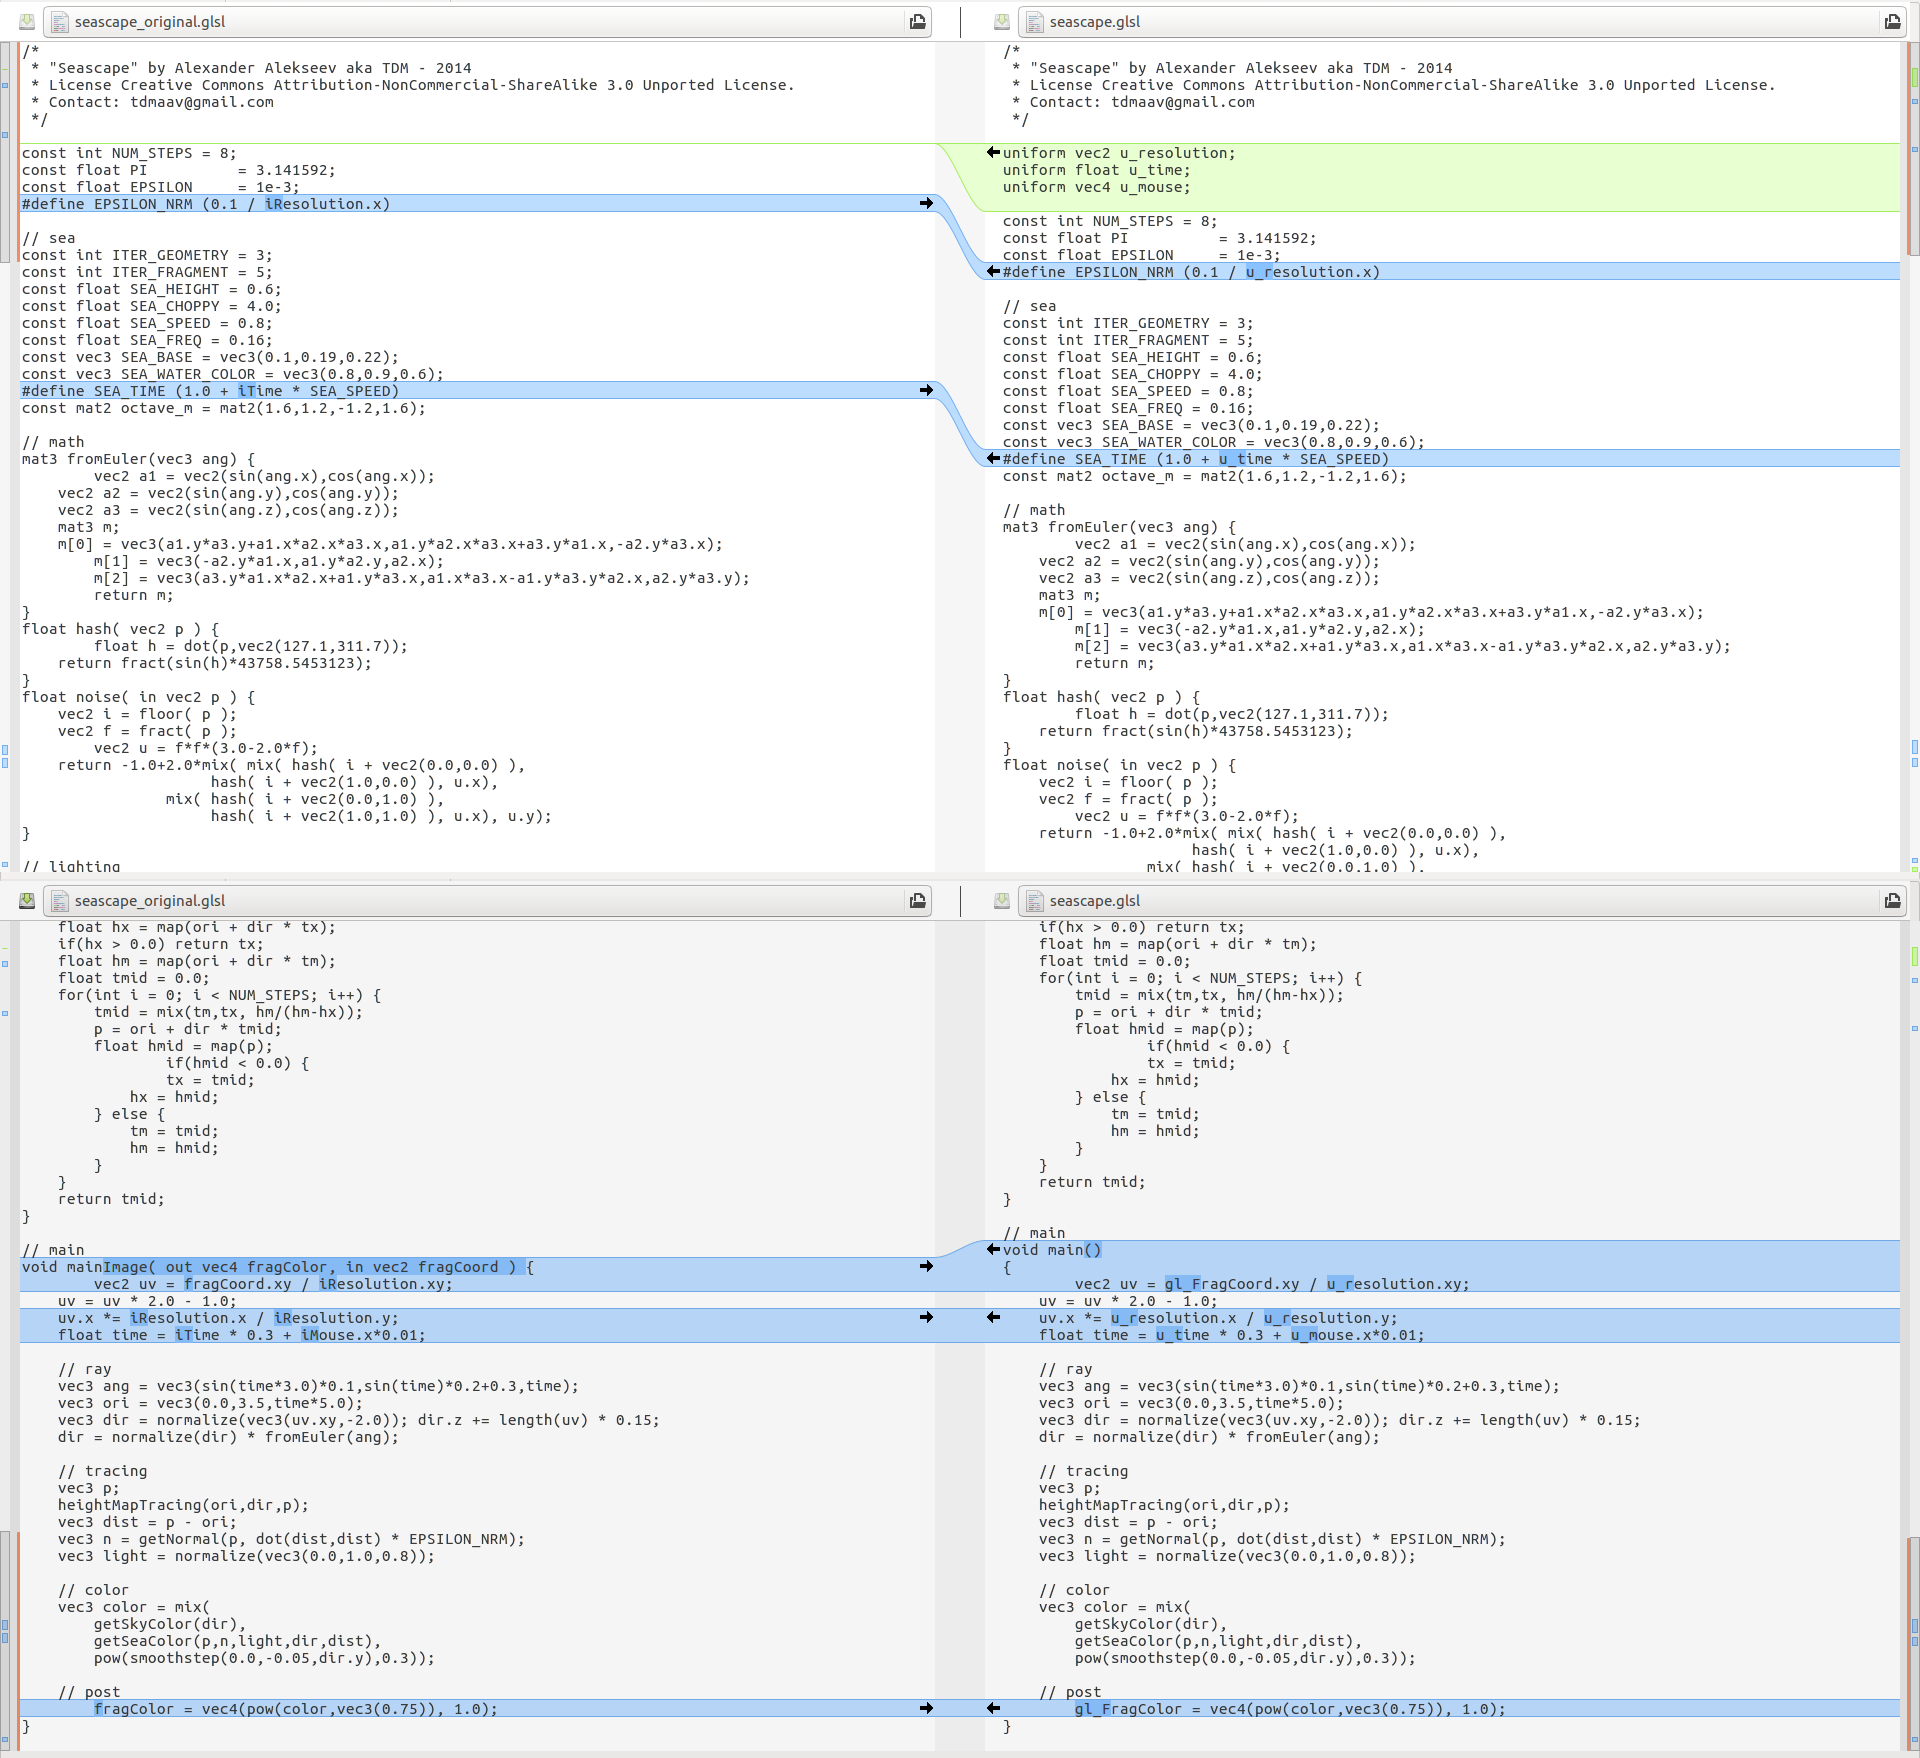
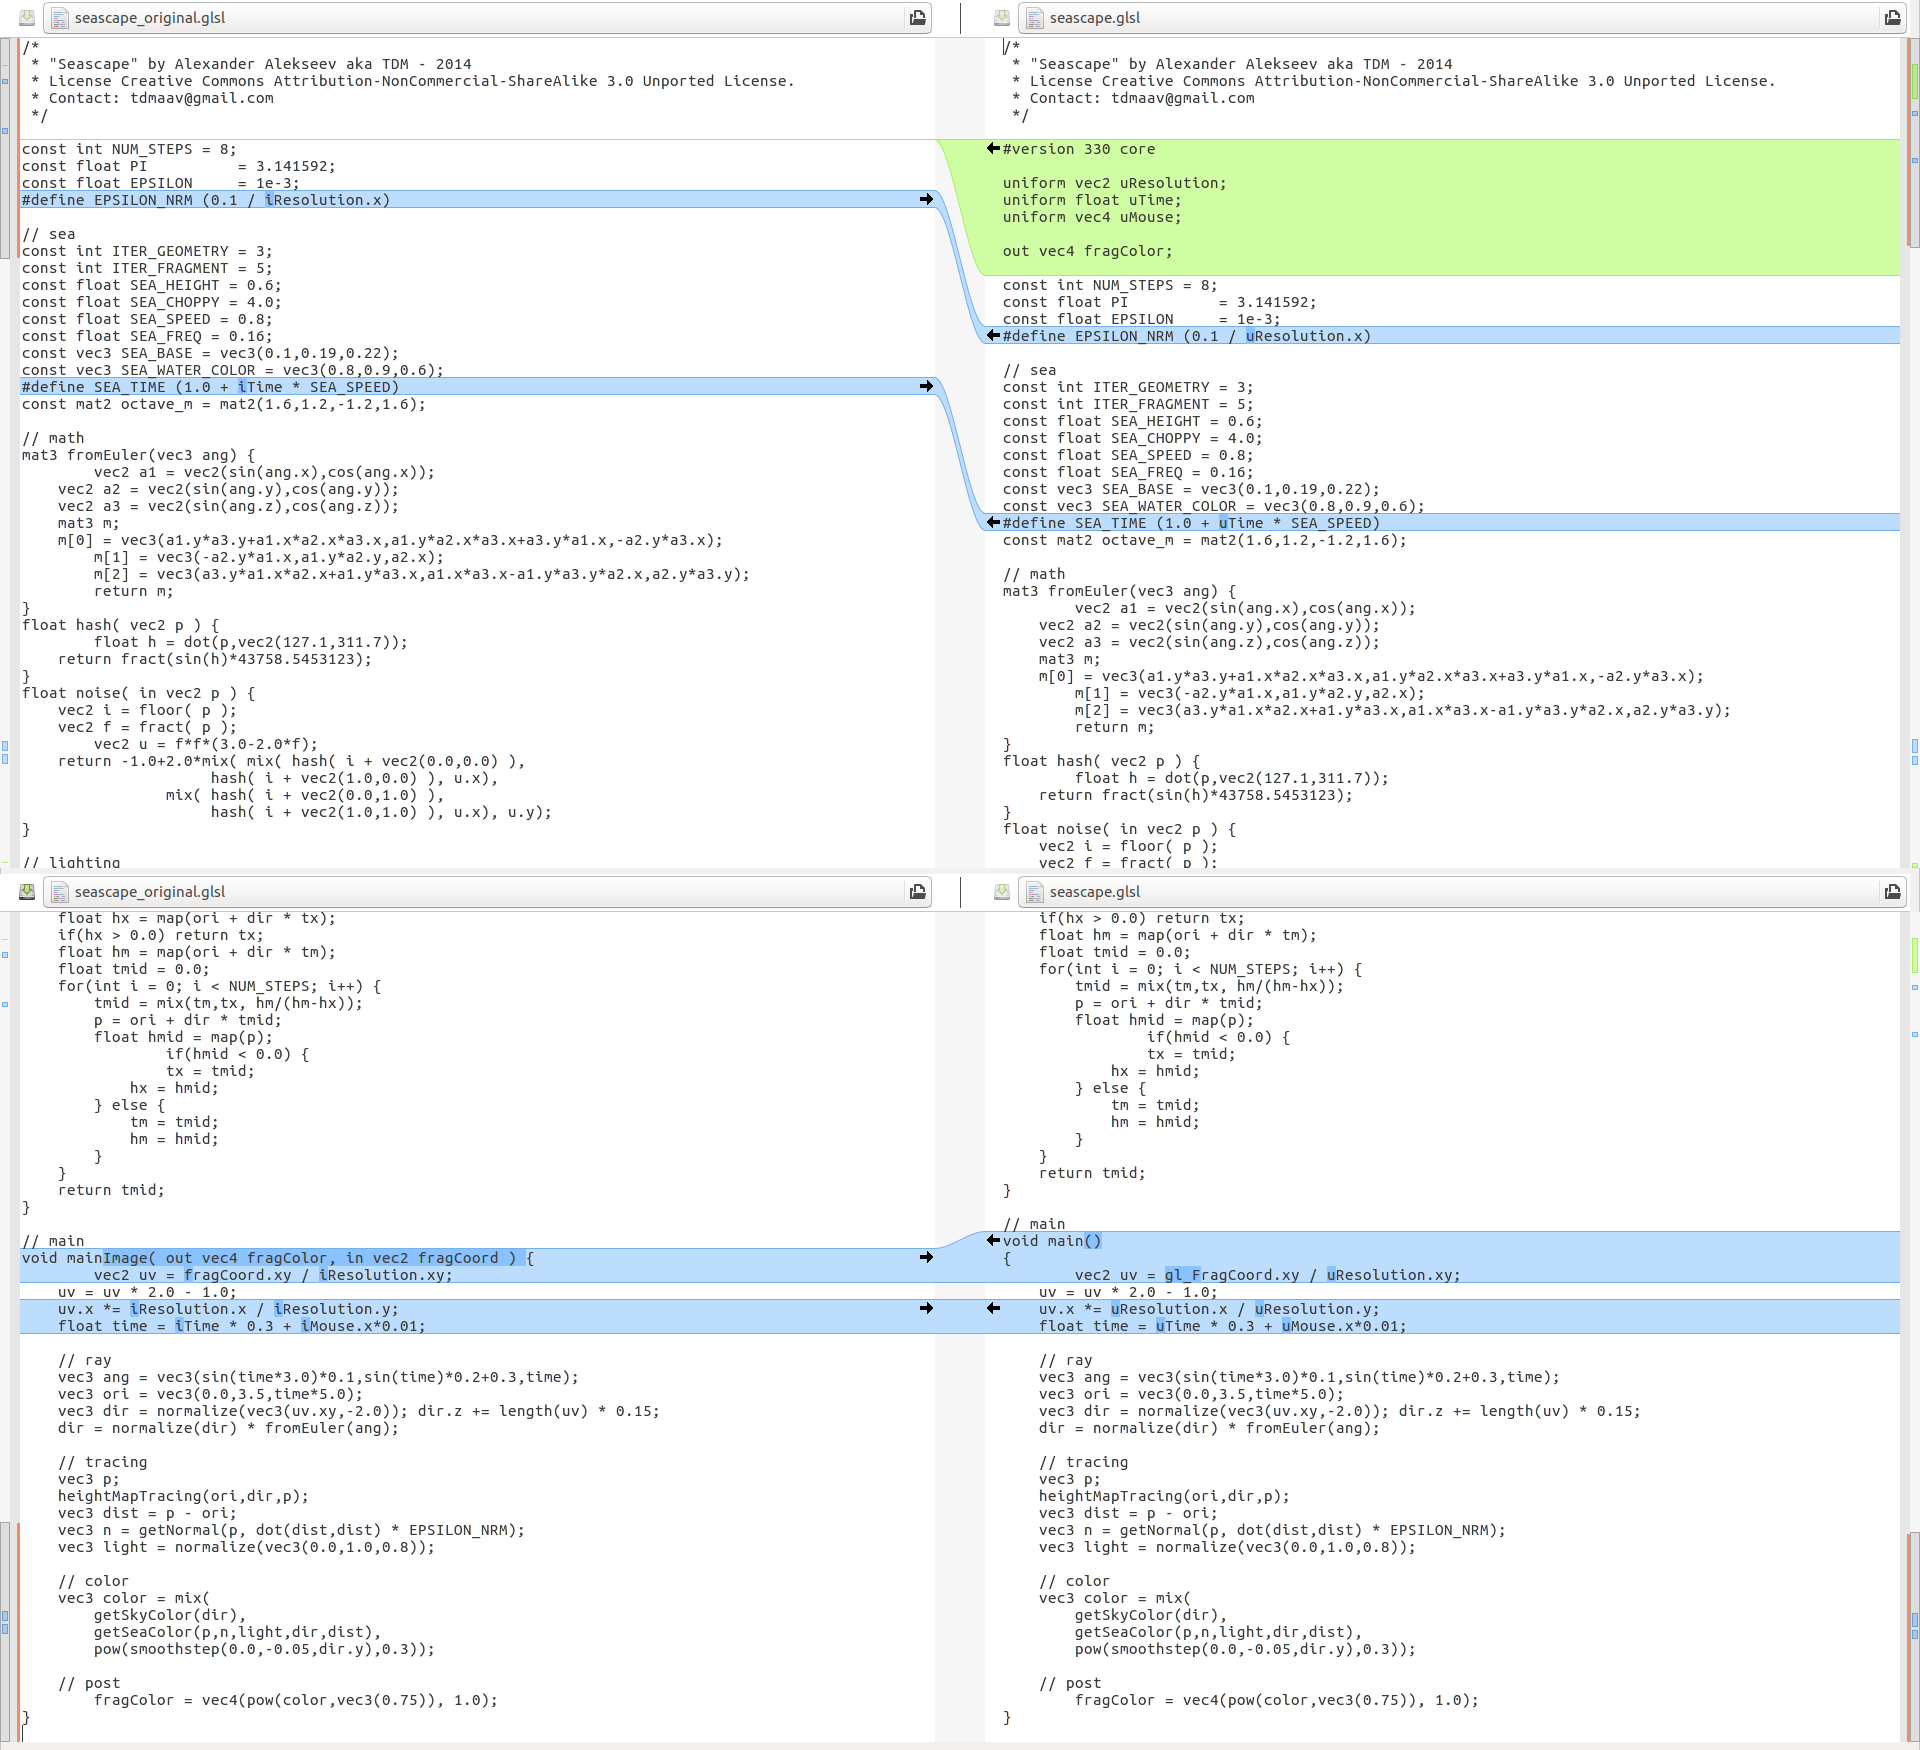
Variable updates to follow a standardized glsl variable naming convention and shader updates.

Changed region(s): [[0.0, 0.0, 1.0, 0.9874], [0.1562, 0.432, 0.2188, 0.4629]]

diff --git a/community/seascape-shader/seascape.go b/community/seascape-shader/seascape.go
@@ -42,9 +42,9 @@ func run() {
 	uResolution := mgl32.Vec2{float32(win.Bounds().W()), float32(win.Bounds().H())}
 
 	EasyBindUniforms(canvas,
-		"u_resolution", &uResolution,
-		"u_time", &uTime,
-		"u_mouse", &uMouse,
+		"uResolution", &uResolution,
+		"uTime", &uTime,
+		"uMouse", &uMouse,
 	)
 
 	canvas.SetFragmentShader(fragSource)
@@ -71,114 +71,3 @@ func run() {
 func main() {
 	pixelgl.Run(run)
 }
-
-var cloudsFragmentShader = `
-#version 330 core
-
-#ifdef GL_ES
-precision highp float;
-#endif
-
-#define HOW_CLOUDY 0.2
-#define SHADOW_THRESHOLD 0.4
-#define SHADOW 0.3
-#define SUBSURFACE 1.0
-#define WIND_DIRECTION 0.3
-#define TIME_SCALE 0.6
-#define SCALE 0.1
-//#define ENABLE_SHAFTS
-in vec2 texcoords;
-out vec4 fragColor;
-mat2 RM = mat2(cos(WIND_DIRECTION), -sin(WIND_DIRECTION), sin(WIND_DIRECTION), cos(WIND_DIRECTION));
-uniform float u_time;
-uniform vec2 u_mouse;
-//uniform vec2 u_resolution;
-uniform vec4 u_texbounds;
-uniform sampler2D u_texture;
-uniform vec2 u_gopherpos;
-
-float hash( float n )
-{
-    return fract(sin(n)*758.5453);
-}
-
-float noise( in vec3 x )
-{
-    vec3 p = floor(x);
-    vec3 f = fract(x);
-    float n = p.x + p.y*57.0 + p.z*800.0;
-    float res = mix(mix(mix( hash(n+  0.0), hash(n+  1.0),f.x), mix( hash(n+ 57.0), hash(n+ 58.0),f.x),f.y),
-            mix(mix( hash(n+800.0), hash(n+801.0),f.x), mix( hash(n+857.0), hash(n+858.0),f.x),f.y),f.z);
-    return res;
-}
-
-float fbm( vec3 p )
-{
-    float f = 0.0;
-    f += 0.50000*noise( p ); p = p*2.02;
-    f -= 0.25000*noise( p ); p = p*2.03;
-    f += 0.12500*noise( p ); p = p*3.01;
-    f += 0.06250*noise( p ); p = p*3.04;
-    f += 0.03500*noise( p ); p = p*4.01;
-    f += 0.01250*noise( p ); p = p*4.04;
-    f -= 0.00125*noise( p );
-    return f/0.784375;
-}
-
-float cloud(vec3 p)
-{
-    p-=fbm(vec3(p.x,p.y,0.0)*0.5)*1.25;
-    float a = min((fbm(p*3.0)*2.2-1.1), 0.0);
-    return a*a;
-}
-
-float shadow = 1.0;
-
-
-float clouds(vec2 p){
-    float ic = cloud(vec3(p * 2.0, u_time*0.01 * TIME_SCALE)) / HOW_CLOUDY;
-    float init = smoothstep(0.1, 1.0, ic) * 5.0;
-    shadow = smoothstep(0.0, SHADOW_THRESHOLD, ic) * SHADOW + (1.0 - SHADOW);
-    init = (init * cloud(vec3(p * (6.0), u_time*0.01 * TIME_SCALE)) * ic);
-    init = (init * (cloud(vec3(p * (11.0), u_time*0.01 * TIME_SCALE))*0.5 + 0.4) * init);
-    return min(1.0, init);
-}
-//uniform sampler2D bb;
-float cloudslowres(vec2 p){
-    return 1.0 - (texture(u_texture, p).a - 0.9) * 10.0;
-}
-
-vec2 ratio = vec2(1.0, 1.0);
-
-vec4 getresult(){
-	vec2 uvmouse = (u_mouse/(texcoords - u_texbounds.xy));
-	vec2 t = (texcoords - u_texbounds.xy) / u_texbounds.zw;
-    //vec2 surfacePosition = ((( t ) * vec2(u_gopherpos.x , u_gopherpos.y)) * 2.0 - 1.0)*SCALE;
-	vec2 surfacePosition = t+u_gopherpos*10.0;
-	vec2 position = ( surfacePosition * SCALE);
-	vec2 sun = (uvmouse.xy * vec2(texcoords.x / texcoords.y, 1.0)*2.0-1.0) * SCALE;
-
-    float dst = distance(sun * ratio, position * ratio);
-    float suni = pow(dst + 1.0, -10.0);
-    float shaft =0.0;
-    float st = 0.05;
-    float w = 1.0;
-    vec2 dir = sun - position;
-    float c = clouds(position);
-    #ifdef ENABLE_SHAFTS
-    for(int i=0;i<50;i++){
-        float occl = cloudslowres(clamp((t) + dir * st, 0.0, 1.0));
-        w *= 0.99;
-        st *= 1.05;
-        shaft += max(0.0, (1.0 - occl)) * w;
-    }
-    #endif
-    shadow = min(1.0, shadow + suni * suni * 0.2 * SUBSURFACE);
-    suni *= (shaft * 0.03);
-    return vec4(pow(mix(vec3(shadow), pow(vec3(0.23, 0.33, 0.48), vec3(2.2)) + suni, c), vec3(1.0/2.2)), c*0.1 + 0.9);     
-}
-
-void main( void ) {
-    fragColor = getresult().rgba;
-}
-`

diff --git a/community/seascape-shader/README.md b/community/seascape-shader/README.md
@@ -52,9 +52,9 @@ and we call that function like so:
 
 ``` go
 	EasyBindUniforms(canvas,
-		"u_resolution", &uResolution,
-		"u_time", &uTime,
-		"u_mouse", &uMouse,
+		"uResolution", &uResolution,
+		"uTime", &uTime,
+		"uMouse", &uMouse,
 	)
 ```
 
@@ -63,9 +63,9 @@ and we call that function like so:
 We also need to do some updates to the shader file itself to match these variables. First thing would be to add the variables we exposed in Go.
 
 ```
-uniform vec2 u_resolution;
-uniform float u_time;
-uniform vec4 u_mouse;
+uniform vec2 uResolution;
+uniform float uTime;
+uniform vec4 uMouse;
 ```
 Then we just rename the variables to match.
 
@@ -87,16 +87,20 @@ to
 ```
 gl_FragCoord
 ```
+because this is available globaly in the OpenGL space for the shader.
 
-and rename:
+We also need to add:
 ```
-fragColor
+out vec4 fragColor;
 ```
-to
+
+to expose that.
+
+Lastly, we need to add:
 ```
-gl_FragColor
+#version 330 core
 ```
-because these are available globaly in the OpenGL space for the shader.
+at the top to tell what version we require.
 
 
 ## Using shader
@@ -112,7 +116,7 @@ where fragSource is the fragment shader, not a path fo a file.
 
 Here is a diff of the changes:
 
-![seascape animation](shader_diffs.png "Seascape animation")
+![code changes](shader_diffs.png "Code changes")
 
 
 And that is it. Running the program we should see this:
